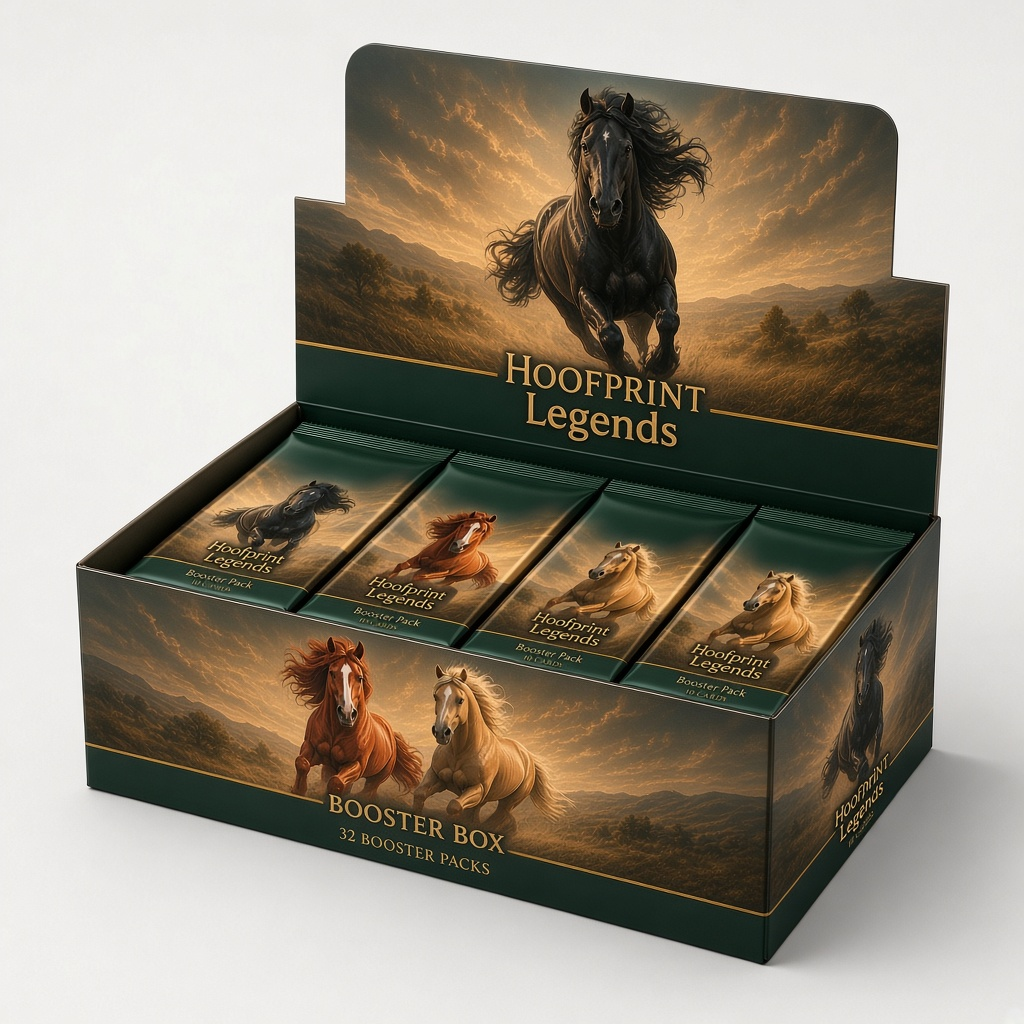
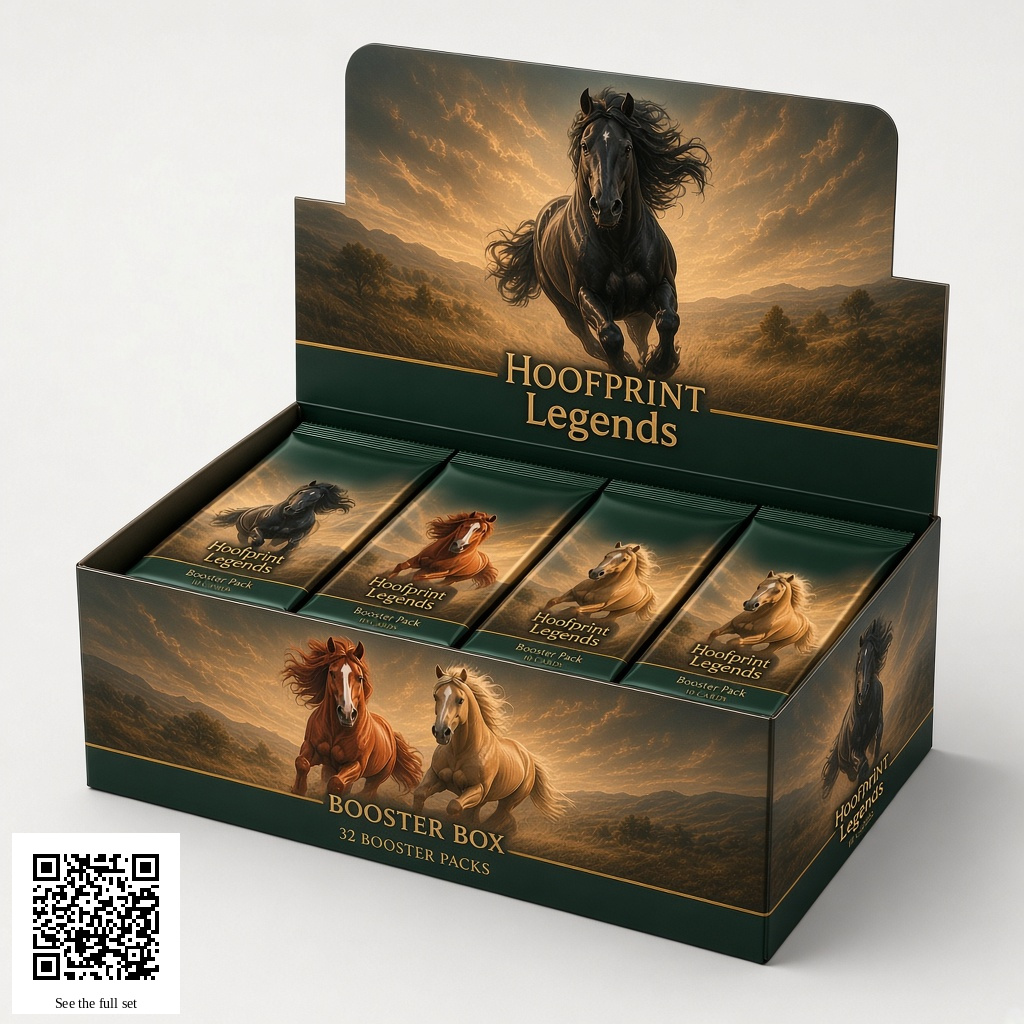
Add a scannable QR code to the Hoofprint pack back and booster box.
The code opens the live set page, with a short caption, and the same mark is saved as a PNG and SVG.

Changed region(s): [[0.0312, 0.8125, 0.1875, 1.0]]

diff --git a/horse-cards/index.html b/horse-cards/index.html
@@ -93,10 +93,10 @@
     <img src="packs/pack-palomino.jpg" width="750" height="1000" alt="Hoofprint Legends booster pack with a palomino horse">
     <img src="packs/pack-chestnut.jpg" width="750" height="1000" alt="Hoofprint Legends booster pack with a chestnut horse">
     <figure class="pack-box">
-      <img src="packs/booster-box-32.jpg" width="1024" height="1024" alt="Hoofprint Legends booster box holding 32 booster packs">
+      <img src="packs/booster-box-32.jpg?v=2026110209" width="1024" height="1024" alt="Hoofprint Legends booster box holding 32 booster packs">
       <figcaption>Booster Box — 32 Packs · Coming Soon</figcaption>
     </figure>
-    <img class="pack-back" src="packs/pack-back.png?v=2026110203" width="864" height="1152" alt="Back of a Hoofprint Legends booster pack. Ten cards: 5 Common, 3 Uncommon, one guaranteed Rare, and a Legendary 1 in 24 packs (about 1 per box).">
+    <img class="pack-back" src="packs/pack-back.png?v=2026110209" width="864" height="1152" alt="Back of a Hoofprint Legends booster pack. Ten cards: 5 Common, 3 Uncommon, one guaranteed Rare, and a Legendary 1 in 24 packs (about 1 per box).">
   </div>
   <img class="pack-odds" src="packs/pack-odds.png?v=2026110203" width="1200" height="1000" alt="Hoofprint Legends booster pack odds. Five Common, three Uncommon, one guaranteed Rare, and a Legendary 1 in 24 packs (about 1 per box). A specific Legendary is about 1 in 384 packs. Set: 100 Common, 57 Uncommon, 33 Rare, 16 Legendary.">
   <p class="pack-note">Hoofprint Legends booster packs contain 10 cards: 5 Common (ID cards included), 3 Uncommon, 1 guaranteed Rare, and 1 Rare-or-Legendary slot (Legendary 1 in 24 packs, about 1 per box, Rare otherwise). A box averages about 1 Legendary (about 64% of boxes have at least one; not guaranteed). Any specific Legendary is about 1 in 384 packs. Set: 100 Common, 57 Uncommon, 33 Rare, 16 Legendary (206 cards).</p>

diff --git a/horse-cards/shop.html b/horse-cards/shop.html
@@ -27,7 +27,7 @@
       <button type="button" disabled>Coming Soon</button>
     </figure>
     <figure class="shop-option">
-      <img src="packs/booster-box-32.jpg" width="1024" height="1024" alt="Hoofprint Legends booster box holding 32 booster packs">
+      <img src="packs/booster-box-32.jpg?v=2026110209" width="1024" height="1024" alt="Hoofprint Legends booster box holding 32 booster packs">
       <figcaption>Booster Box — 32 Packs</figcaption>
       <button type="button" disabled>Coming Soon</button>
     </figure>
